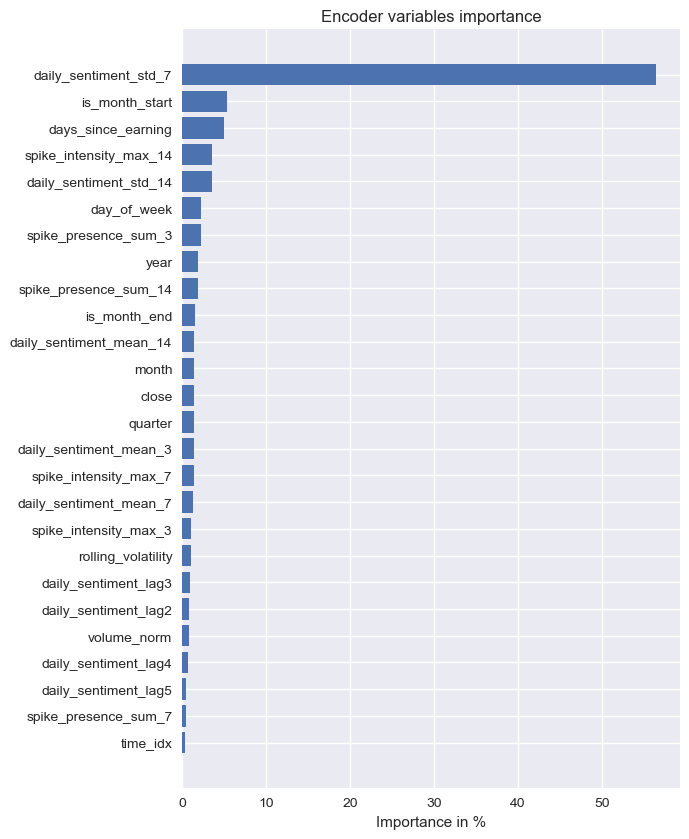
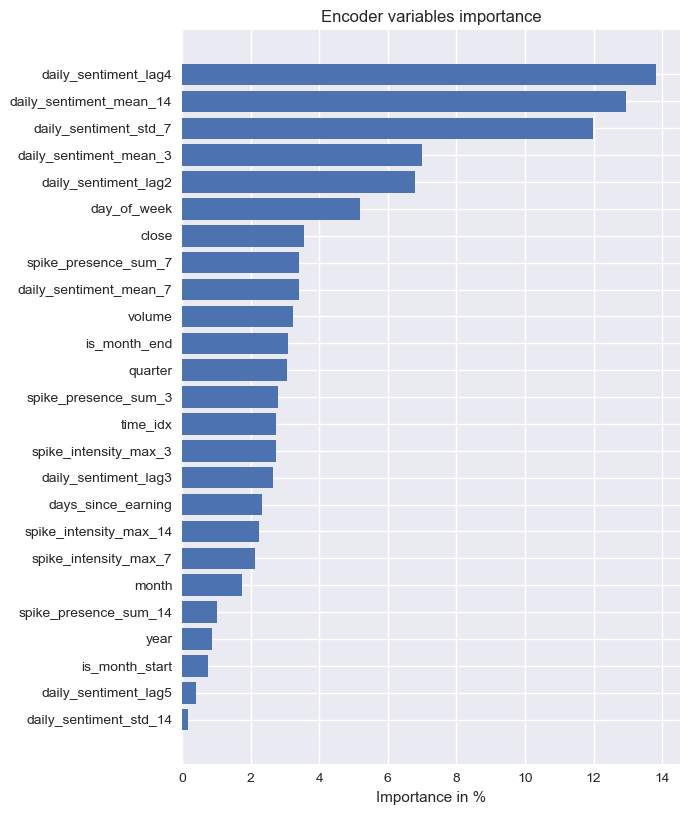
chore: update README (windows/plots/DA) and fix loaders (date lowercase, safe NaN fill); align NVDA baseline config

diff --git a/models/tft_baseline_nvda.py b/models/tft_baseline_nvda.py
@@ -188,9 +188,10 @@ def load_and_prepare_data(file_path=None, config=None):
         if missing_values.sum() > 0:
             print("\nMissing values:")
             print(missing_values[missing_values > 0])
-            # Fill missing values
-            df = df.fillna(method='ffill').fillna(method='bfill')
-            print("✓ Missing values filled")
+            # Fill missing values (exclude target 'close' and 'date')
+            safe_cols = [c for c in df.columns if c not in ('close', 'date')]
+            df[safe_cols] = df[safe_cols].fillna(method='ffill').fillna(method='bfill')
+            print("✓ Missing values filled (target 'close' untouched)")
         else:
             print("✓ No missing values found")
         

diff --git a/results/plot_tft_improvement.py b/results/plot_tft_improvement.py
@@ -3,8 +3,9 @@ import numpy as np
 
 # Data
 stocks = ['TSLA', 'NVDA']
-rmse_reduction = [66.9, 69.2]
-mape_reduction = [71.8, 72.7]
+rmse_reduction = [40.2, 42.6]
+mape_reduction = [87.9, 88.9]
+
 
 x = np.arange(len(stocks))
 width = 0.35

diff --git a/README.md b/README.md
@@ -241,7 +241,7 @@ The Temporal Fusion Transformer (TFT) model provides rich interpretability throu
 <br><b>Encoder Visualization</b>
 </td>
 <td align="center" width="33%">
-<img src="results/TSLA_TFT_baseline_variable_importance_20250928_130820.png" width="250">
+<img src="results/TSLA_TFT_baseline_variable_importance.png" width="250">
 <br><b>Variable Importance</b>
 </td>
 </tr>
@@ -259,7 +259,7 @@ The Temporal Fusion Transformer (TFT) model provides rich interpretability throu
 <br><b>Encoder Visualization</b>
 </td>
 <td align="center" width="33%">
-<img src="results/TSLA_TFT_sentiment_variable_importance_20250928_142923.png" width="250">
+<img src="results/TSLA_TFT_with_reddit_sentiment_variable_importance.png" width="250">
 <br><b>Variable Importance</b>
 </td>
 </tr>
@@ -369,6 +369,12 @@ We added a log1p(volume) + RobustScaler (fit on the 96-day train window starting
 | TFT Baseline | 96 days from `train_start` (default 2025-02-01) | 5 days | `data/interim/TSLA_price_full.csv` |
 | TFT + Reddit Sentiment | 96 days from `train_start` (default 2025-02-01) | 5 days | `data/processed/tsla_price_sentiment_spike_merged_20220721_20250915.csv` (fallback: `data/processed/tsla_price_sentiment_spike.csv`) |
 
+Latest aligned window when train_start = 2025-02-01 (TSLA):
+
+| train_start | train_end | train_rows | test_start | test_end | test_rows |
+|---|---|---:|---|---|--:|
+| 2025-02-03 | 2025-06-20 | 96 | 2025-06-23 | 2025-06-27 | 5 |
+
 ### NVDA
 | Model | Train window (default) | Test horizon (default) | Data file(s) |
 |---|---|---|---|
@@ -376,7 +382,13 @@ We added a log1p(volume) + RobustScaler (fit on the 96-day train window starting
 | TimesFM | 96 days (last window or from `train_start`) | 5 days | `data/NVDA_close.csv` |
 | Chronos | 96 days (last window or from `train_start`) | 5 days | `data/NVDA_close.csv` |
 | TFT Baseline | 96 days from `train_start` (default 2025-02-01) | 5 days | `data/processed/NVDA_price_full.csv` |
-| TFT + Reddit Sentiment | 96 days from `train_start` (default 2025-02-01) | 5 days | `data/processed/nvda_price_sentiment_spike_merged_20250203_20250717.csv` |## Training/Test Windows and Data Files
+| TFT + Reddit Sentiment | 96 days from `train_start` (default 2025-02-01) | 5 days | `data/processed/nvda_price_sentiment_spike_merged_20250203_20250717.csv` |
+
+Latest aligned window when train_start = 2025-02-01 (NVDA):
+
+| train_start | train_end | train_rows | test_start | test_end | test_rows |
+|---|---|---:|---|---|--:|
+| 2025-02-03 | 2025-06-20 | 96 | 2025-06-23 | 2025-06-27 | 5 |
 
 
 ## Project structure
